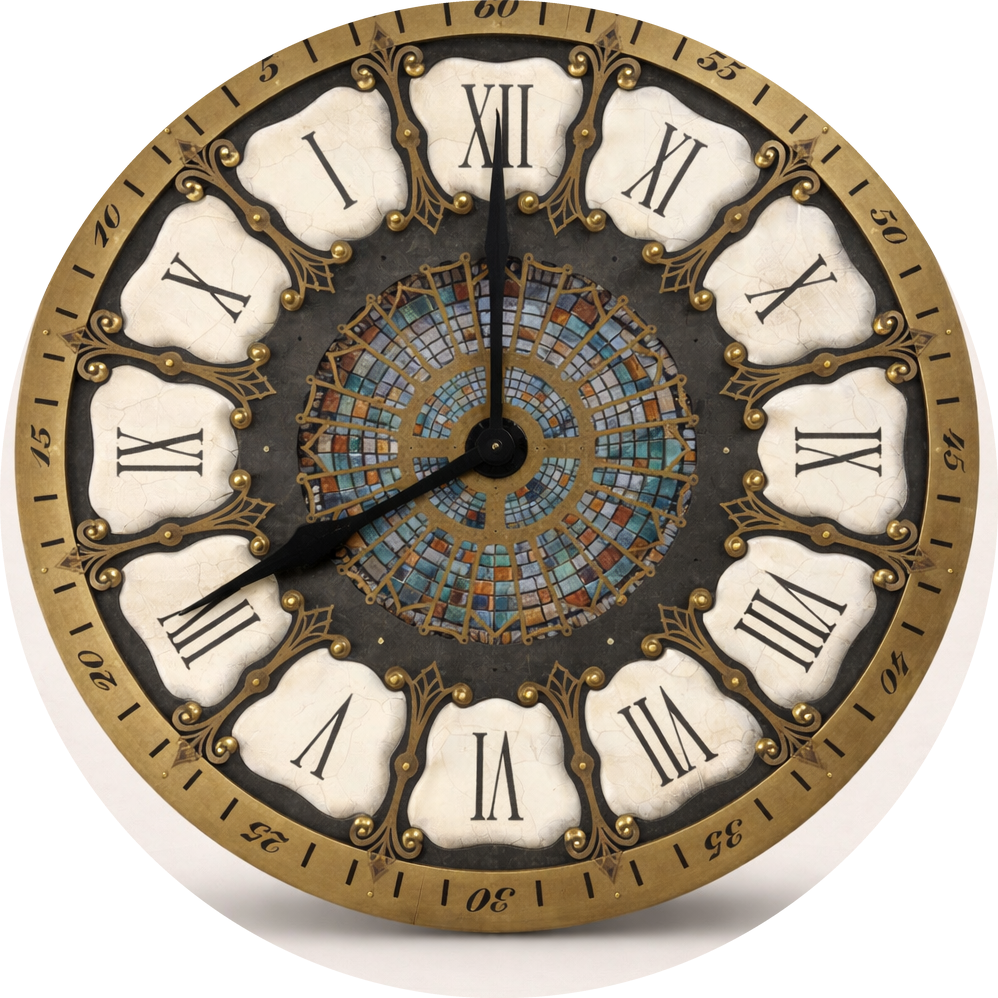
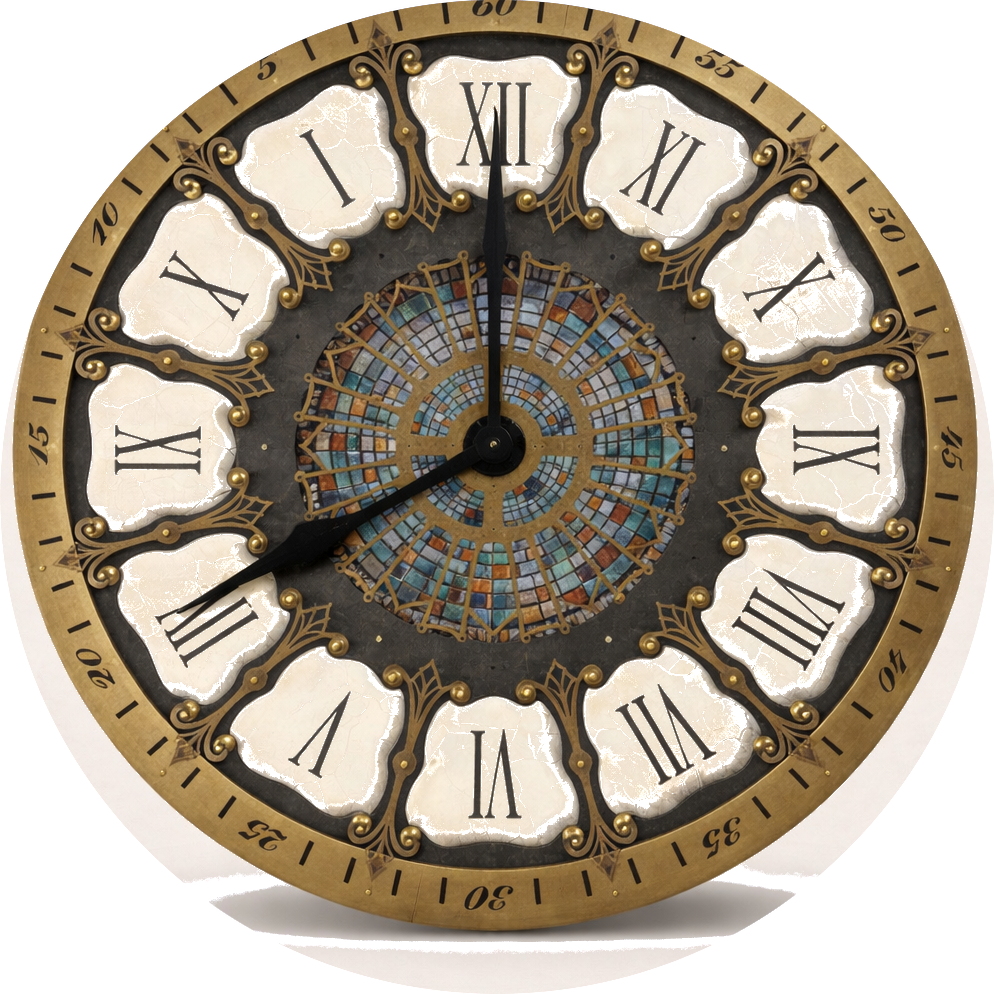
Fix clock halo, enlarge tagline, wire Instagram link
Opening sequence: add dark radial vignette on .seq-clock::after to fade
the light outer tick-ring into the background (eliminates the white-background
halo without losing the clock design). Tagline bumped from clamp(0.85rem,2.5vw,1rem)
to clamp(1.3rem,3.5vw,2rem) and brightened to --brass-light. Instagram footer/
contact links wired to https://www.instagram.com/etherealdelray with
target=_blank across all pages.

diff --git a/pages/contact.html b/pages/contact.html
@@ -101,7 +101,7 @@
             <div class="contact-block">
               <h3>Follow Along</h3>
               <p>
-                <a href="#" aria-label="Instagram">Instagram</a>
+                <a href="https://www.instagram.com/etherealdelray" target="_blank" rel="noopener noreferrer" aria-label="Instagram">Instagram</a>
                 <span class="content-ph" style="font-size:14px;"> · [ @etherealdining ]</span>
               </p>
             </div>
@@ -182,7 +182,7 @@
         <div class="footer-brand">
           <a href="/" class="footer-logo"><img src="/src/assets/images/logo.png" alt="Ethereal" class="logo-img"></a>
           <p class="footer-tagline">Where time breathes.</p>
-          <div class="footer-social"><a href="#" aria-label="Instagram">Instagram</a></div>
+          <div class="footer-social"><a href="https://www.instagram.com/etherealdelray" target="_blank" rel="noopener noreferrer" aria-label="Instagram">Instagram</a></div>
         </div>
         <nav class="footer-nav" aria-label="Footer navigation">
           <h3>Navigate</h3>

diff --git a/src/css/opening-sequence.css b/src/css/opening-sequence.css
@@ -41,6 +41,21 @@
     drop-shadow(0 0 80px rgba(196, 164, 64, 0.14));
 }
 
+/* Dark vignette fading the outer ring into the background — masks the
+   light-coloured outer tick area and creates a dramatic "emerge from dark" effect */
+.seq-clock::after {
+  content: '';
+  position: absolute;
+  inset: 0;
+  background: radial-gradient(
+    circle at 50% 50%,
+    transparent 76%,
+    rgba(10, 8, 7, 0.55) 88%,
+    var(--ink) 100%
+  );
+  pointer-events: none;
+}
+
 /* When the real video replaces the clock SVG */
 #opening-video {
   position: absolute;
@@ -59,12 +74,12 @@
 
 .seq-tagline {
   font-family: var(--font-display);
-  font-size: clamp(0.85rem, 2.5vw, 1rem);
+  font-size: clamp(1.3rem, 3.5vw, 2rem);
   font-weight: 300;
   font-style: italic;
-  color: var(--brass-dark);
-  letter-spacing: 0.12em;
-  margin-top: 0.4rem;
+  color: var(--brass-light);
+  letter-spacing: 0.08em;
+  margin-top: 0.6rem;
   display: block;
 }
 

diff --git a/pages/about.html b/pages/about.html
@@ -165,7 +165,7 @@
         <div class="footer-brand">
           <a href="/" class="footer-logo"><img src="/src/assets/images/logo.png" alt="Ethereal" class="logo-img"></a>
           <p class="footer-tagline">Where time breathes.</p>
-          <div class="footer-social"><a href="#" aria-label="Instagram">Instagram</a></div>
+          <div class="footer-social"><a href="https://www.instagram.com/etherealdelray" target="_blank" rel="noopener noreferrer" aria-label="Instagram">Instagram</a></div>
         </div>
         <nav class="footer-nav" aria-label="Footer navigation">
           <h3>Navigate</h3>

diff --git a/pages/careers.html b/pages/careers.html
@@ -133,7 +133,7 @@
         <div class="footer-brand">
           <a href="/" class="footer-logo"><img src="/src/assets/images/logo.png" alt="Ethereal" class="logo-img"></a>
           <p class="footer-tagline">Where time breathes.</p>
-          <div class="footer-social"><a href="#" aria-label="Instagram">Instagram</a></div>
+          <div class="footer-social"><a href="https://www.instagram.com/etherealdelray" target="_blank" rel="noopener noreferrer" aria-label="Instagram">Instagram</a></div>
         </div>
         <nav class="footer-nav" aria-label="Footer navigation">
           <h3>Navigate</h3>

diff --git a/pages/gallery.html b/pages/gallery.html
@@ -179,7 +179,7 @@
         <div class="footer-brand">
           <a href="/" class="footer-logo"><img src="/src/assets/images/logo.png" alt="Ethereal" class="logo-img"></a>
           <p class="footer-tagline">Where time breathes.</p>
-          <div class="footer-social"><a href="#" aria-label="Instagram">Instagram</a></div>
+          <div class="footer-social"><a href="https://www.instagram.com/etherealdelray" target="_blank" rel="noopener noreferrer" aria-label="Instagram">Instagram</a></div>
         </div>
         <nav class="footer-nav" aria-label="Footer navigation">
           <h3>Navigate</h3>

diff --git a/pages/menu.html b/pages/menu.html
@@ -103,7 +103,7 @@
         <div class="footer-brand">
           <a href="/" class="footer-logo"><img src="/src/assets/images/logo.png" alt="Ethereal" class="logo-img"></a>
           <p class="footer-tagline">Where time breathes.</p>
-          <div class="footer-social"><a href="#" aria-label="Instagram">Instagram</a></div>
+          <div class="footer-social"><a href="https://www.instagram.com/etherealdelray" target="_blank" rel="noopener noreferrer" aria-label="Instagram">Instagram</a></div>
         </div>
         <nav class="footer-nav" aria-label="Footer navigation">
           <h3>Navigate</h3>

diff --git a/pages/reservations.html b/pages/reservations.html
@@ -132,7 +132,7 @@
         <div class="footer-brand">
           <a href="/" class="footer-logo"><img src="/src/assets/images/logo.png" alt="Ethereal" class="logo-img"></a>
           <p class="footer-tagline">Where time breathes.</p>
-          <div class="footer-social"><a href="#" aria-label="Instagram">Instagram</a></div>
+          <div class="footer-social"><a href="https://www.instagram.com/etherealdelray" target="_blank" rel="noopener noreferrer" aria-label="Instagram">Instagram</a></div>
         </div>
         <nav class="footer-nav" aria-label="Footer navigation">
           <h3>Navigate</h3>

diff --git a/index.html b/index.html
@@ -227,7 +227,7 @@
             <a href="/" class="footer-logo"><img src="/src/assets/images/logo.png" alt="Ethereal" class="logo-img"></a>
             <p class="footer-tagline">Where time breathes.</p>
             <div class="footer-social">
-              <a href="#" aria-label="Instagram">Instagram</a>
+              <a href="https://www.instagram.com/etherealdelray" target="_blank" rel="noopener noreferrer" aria-label="Instagram">Instagram</a>
             </div>
           </div>
           <nav class="footer-nav" aria-label="Footer navigation">
